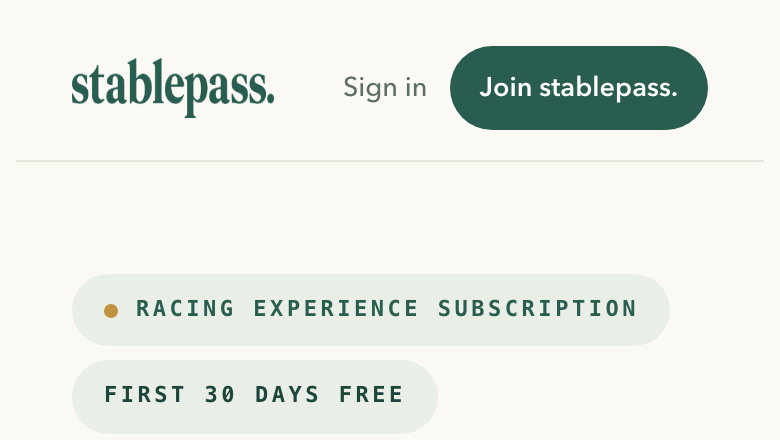
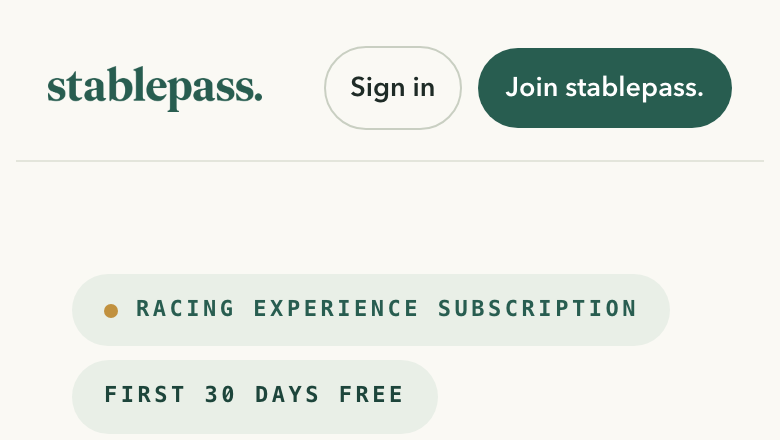
feat(marketing): make sign in an outlined pill, not a muted text link
A muted text link read as a sixth section anchor. It is now an outlined
pill against the solid CTA — the same ghost-vs-solid pairing the mockup
already uses for .btn-ghost beside .btn-green in the hero, borrowing its
exact border colour at the nav CTA's smaller geometry. "Join" stays the
primary action.

Fitting a second pill on a phone needed two more things, both documented
and both additions rather than edits to ported rules:

- the wordmark is a flex item with no basis, so two pills shrank it to a
  sliver rather than overflowing. `.nav-in > .nav-logo{flex:0 0 auto}`
  stops that, and the wordmark then scales down at <=520px because it is
  the one element with slack.
- below ~360px even that does not fit, so sign in gives up its outline
  rather than its label. No approved copy is shortened at any width.

Verified no horizontal overflow at 320/360/375/390/414/520/768/1440/1600.

Claude-Session: https://claude.ai/code/session_01KtEsbjugwT83JusptC24FB

Changed region(s): [[0.4308, 0.0886, 0.9538, 0.2955], [0.0615, 0.1182, 0.3692, 0.2659], [0.4615, 0.0886, 0.5538, 0.1182]]

diff --git a/app/(marketing)/marketing.css b/app/(marketing)/marketing.css
@@ -746,11 +746,34 @@
      nothing mid-wraps, tighten the spacing. Both labels are approved copy and
      are NOT shortened.
      ──────────────────────────────────────────────────────────────────────── */
-  .marketing .nav-actions{display:flex;align-items:center;gap:18px}
-  .marketing .nav-signin{font-size:13.5px;font-weight:500;color:var(--mut);white-space:nowrap;transition:color .2s ease}
-  .marketing .nav-signin:hover{color:var(--brand)}
+  .marketing .nav-actions{display:flex;align-items:center;gap:12px}
+  /* An outlined pill against the solid CTA: the same pairing the mockup already
+     uses for `.btn-ghost` beside `.btn-green` in the hero, borrowing its exact
+     border colour, but at the nav CTA's smaller geometry. Ghost-vs-solid keeps
+     "Join" the primary action while making sign in unmissable for a returning
+     subscriber — a muted text link read as a sixth section anchor. */
+  .marketing .nav-signin{display:inline-flex;align-items:center;font-size:13.5px;font-weight:600;color:var(--ink);border:1.5px solid #C9CFC2;border-radius:999px;padding:9px 18px;white-space:nowrap;transition:border-color .2s ease,color .2s ease}
+  .marketing .nav-signin:hover{border-color:var(--brand);color:var(--brand)}
   .marketing .nav-actions .nav-cta{white-space:nowrap}
+  /* The wordmark is a flex item with no explicit basis, so two pills beside it
+     shrink it to a sliver rather than overflowing. It must never give. */
+  .marketing .nav-in > .nav-logo{flex:0 0 auto}
+  /* Two pills plus a 140px wordmark do not fit a phone. The wordmark scales
+     down (it is the one element with slack — it is set in CSS, not baked), the
+     spacing tightens, and no copy is shortened. */
   @media (max-width:520px){
-    .marketing .nav-actions{gap:11px}
-    .marketing .nav-actions .nav-cta{padding:10px 15px}
+    .marketing .nav-in{gap:12px;padding-left:16px;padding-right:16px}
+    .marketing .nav-in > .nav-logo img{height:23px}
+    .marketing .nav-actions{gap:8px}
+    .marketing .nav-signin{padding:9px 12px}
+    .marketing .nav-actions .nav-cta{padding:9px 14px}
+  }
+  /* Below ~360px even that is not enough. Sign in gives up its outline rather
+     than its label: still present, still tappable, just no longer competing for
+     width. Shortening "Join stablepass." would mean editing approved copy. */
+  @media (max-width:360px){
+    .marketing .nav-in{gap:8px}
+    .marketing .nav-in > .nav-logo img{height:21px}
+    .marketing .nav-signin{border-color:transparent;padding:9px 2px}
+    .marketing .nav-actions .nav-cta{padding:9px 12px}
   }

diff --git a/test/marketing-shell.test.tsx b/test/marketing-shell.test.tsx
@@ -521,14 +521,27 @@ if (MOCKUP) {
         expect(survived.every((s) => got.includes(s))).toBe(true);
       });
 
-      it("adds rules only for the two new components", () => {
+      it("adds rules only for the two new components, plus the wordmark guard", () => {
         // The invariant that matters: ENG-600 may introduce `.nav-actions` and
         // `.nav-signin`, and may not quietly restyle any mockup nav selector.
+        //
+        // Two exceptions, both forced by fitting a second action on a phone:
+        //
+        //   `.nav-in > .nav-logo` — two pills beside a flex item with no basis
+        //   shrink the wordmark to a sliver instead of overflowing, so it needs
+        //   `flex:0 0 auto`. Written as a child combinator rather than a bare
+        //   `.nav-logo` so it cannot be mistaken for a restyle of the mockup's rule.
+        //
+        //   `.nav-in` — its gap and padding are overridden below 520px. This is an
+        //   ADDITION (a narrow-viewport override), not an edit: the mockup's own
+        //   `.nav-in` rule must still survive byte for byte, which the test above
+        //   enforces.
+        const ALLOWED = [".nav-actions", ".nav-signin", ".nav-in"];
         const addedSelectors = got
           .filter((s) => !want.includes(s))
           .map((s) => s.slice(0, s.indexOf("{")));
         expect(addedSelectors.length).toBeGreaterThan(0);
-        expect(addedSelectors.every((s) => s.startsWith(".nav-actions") || s.startsWith(".nav-signin"))).toBe(true);
+        expect(addedSelectors.every((s) => ALLOWED.some((a) => s.startsWith(a)))).toBe(true);
       });
 
       it("still pushes the actions group right once the links are hidden", () => {
